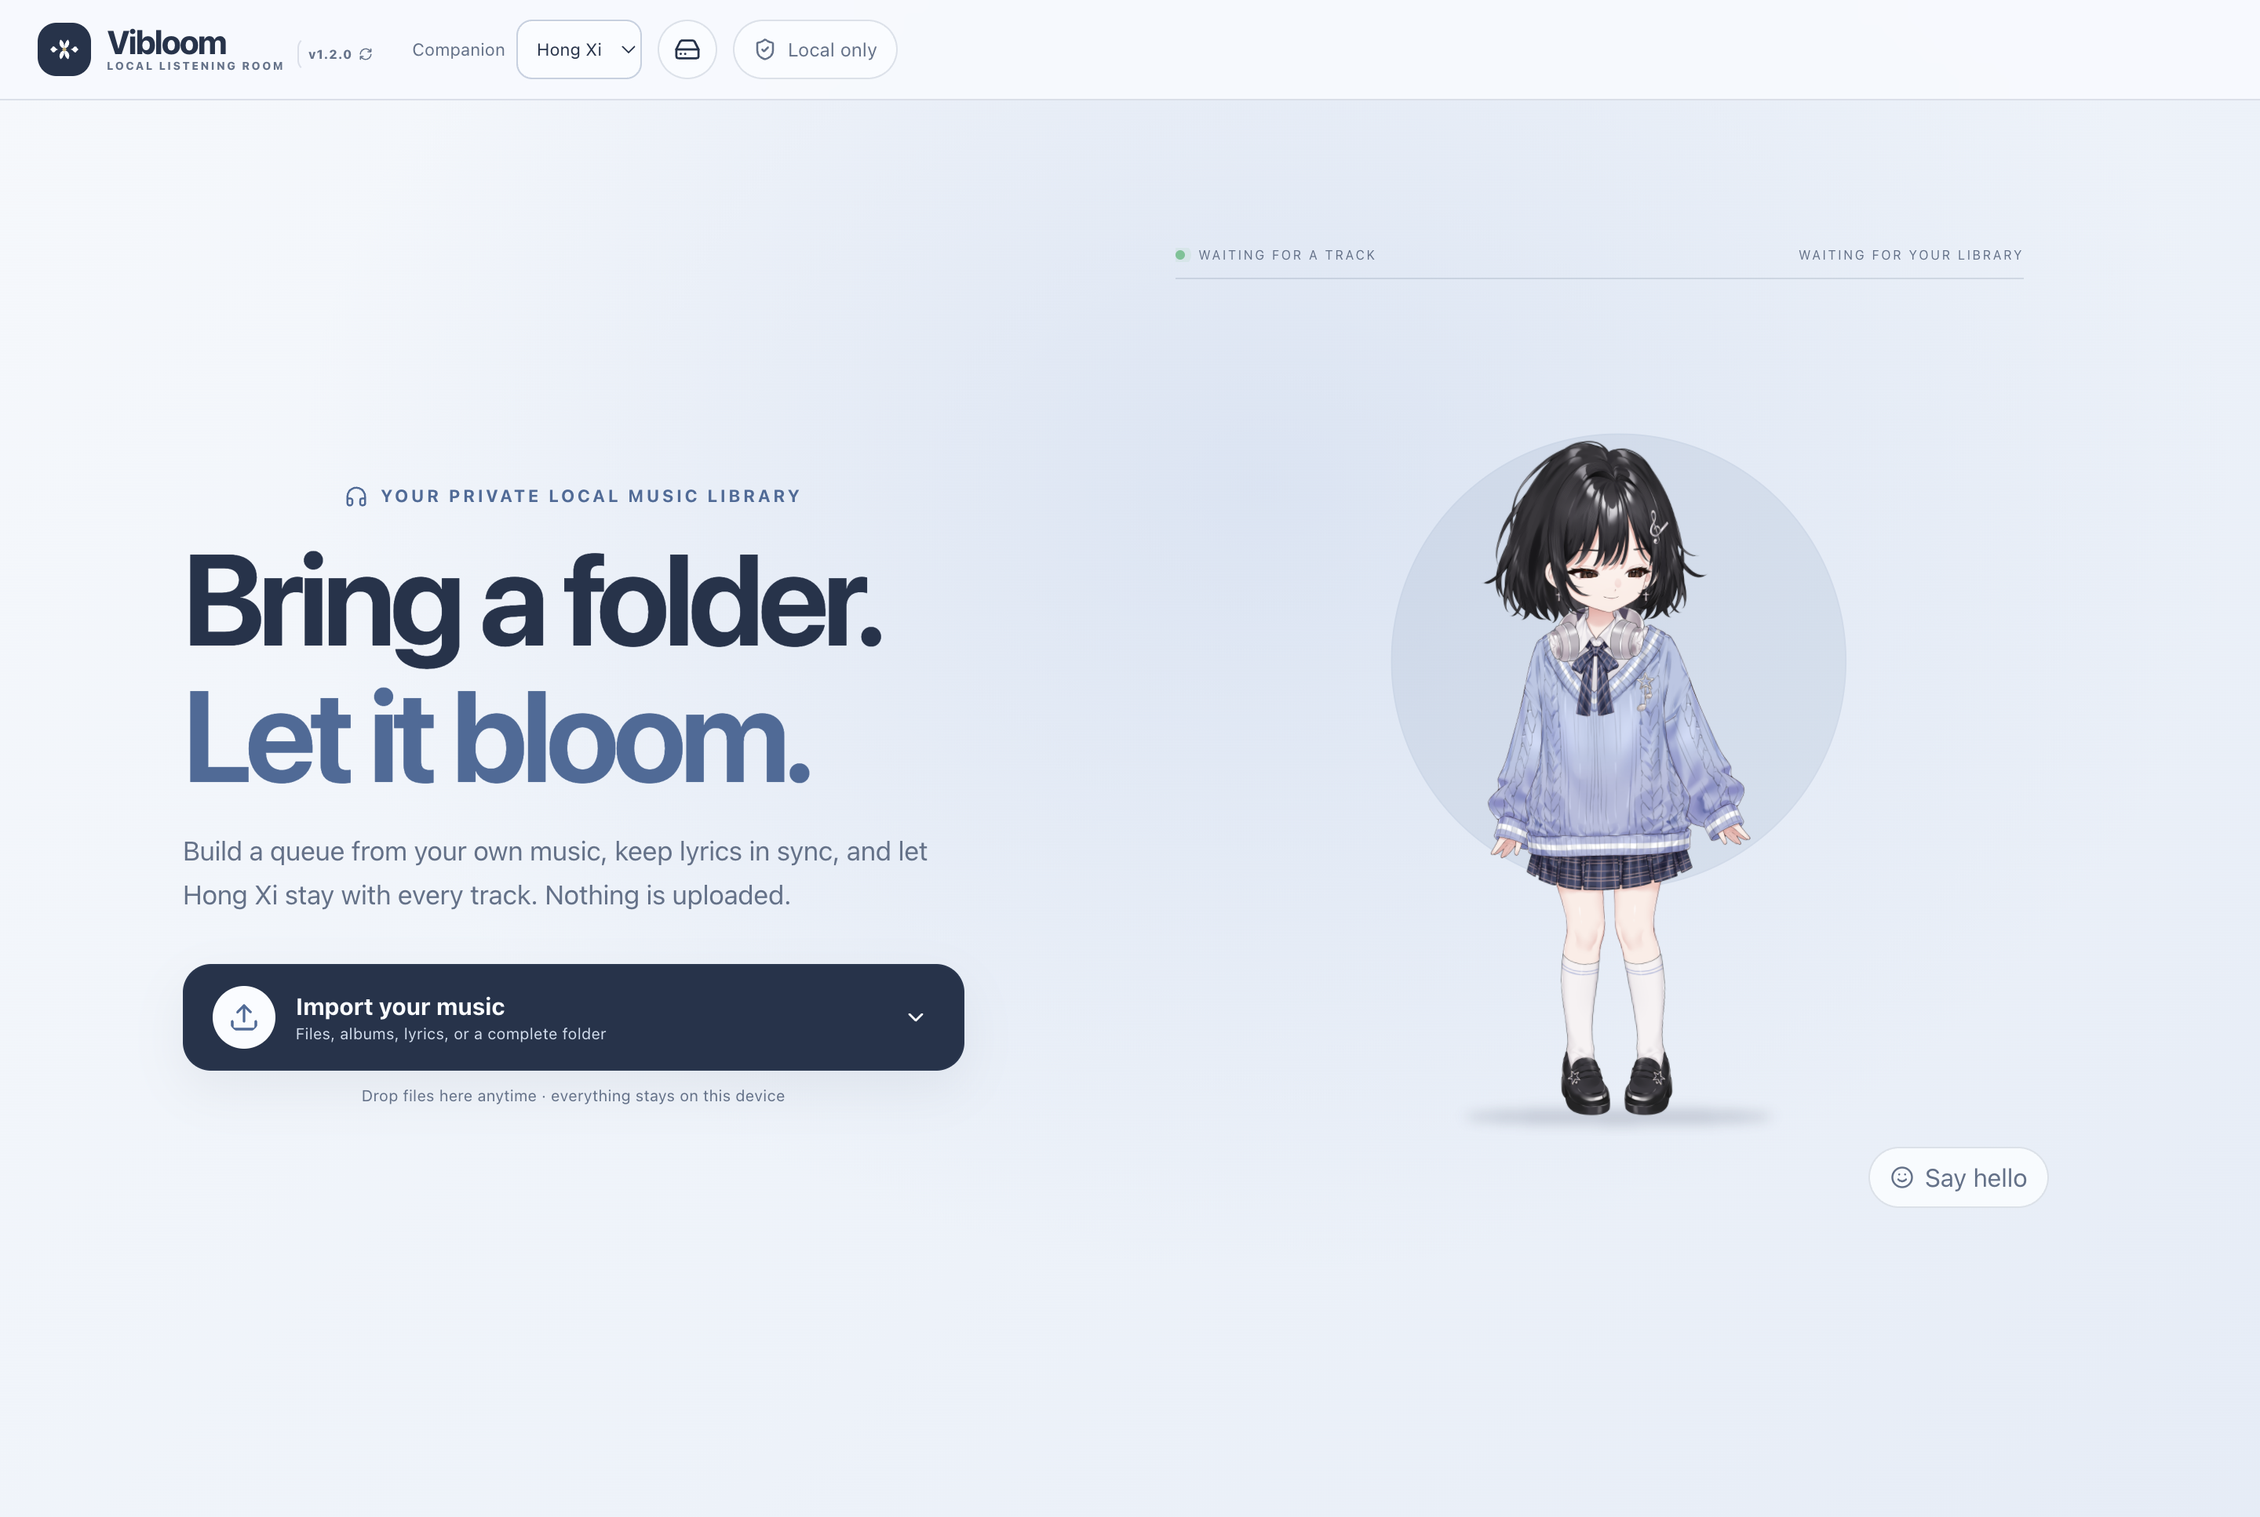
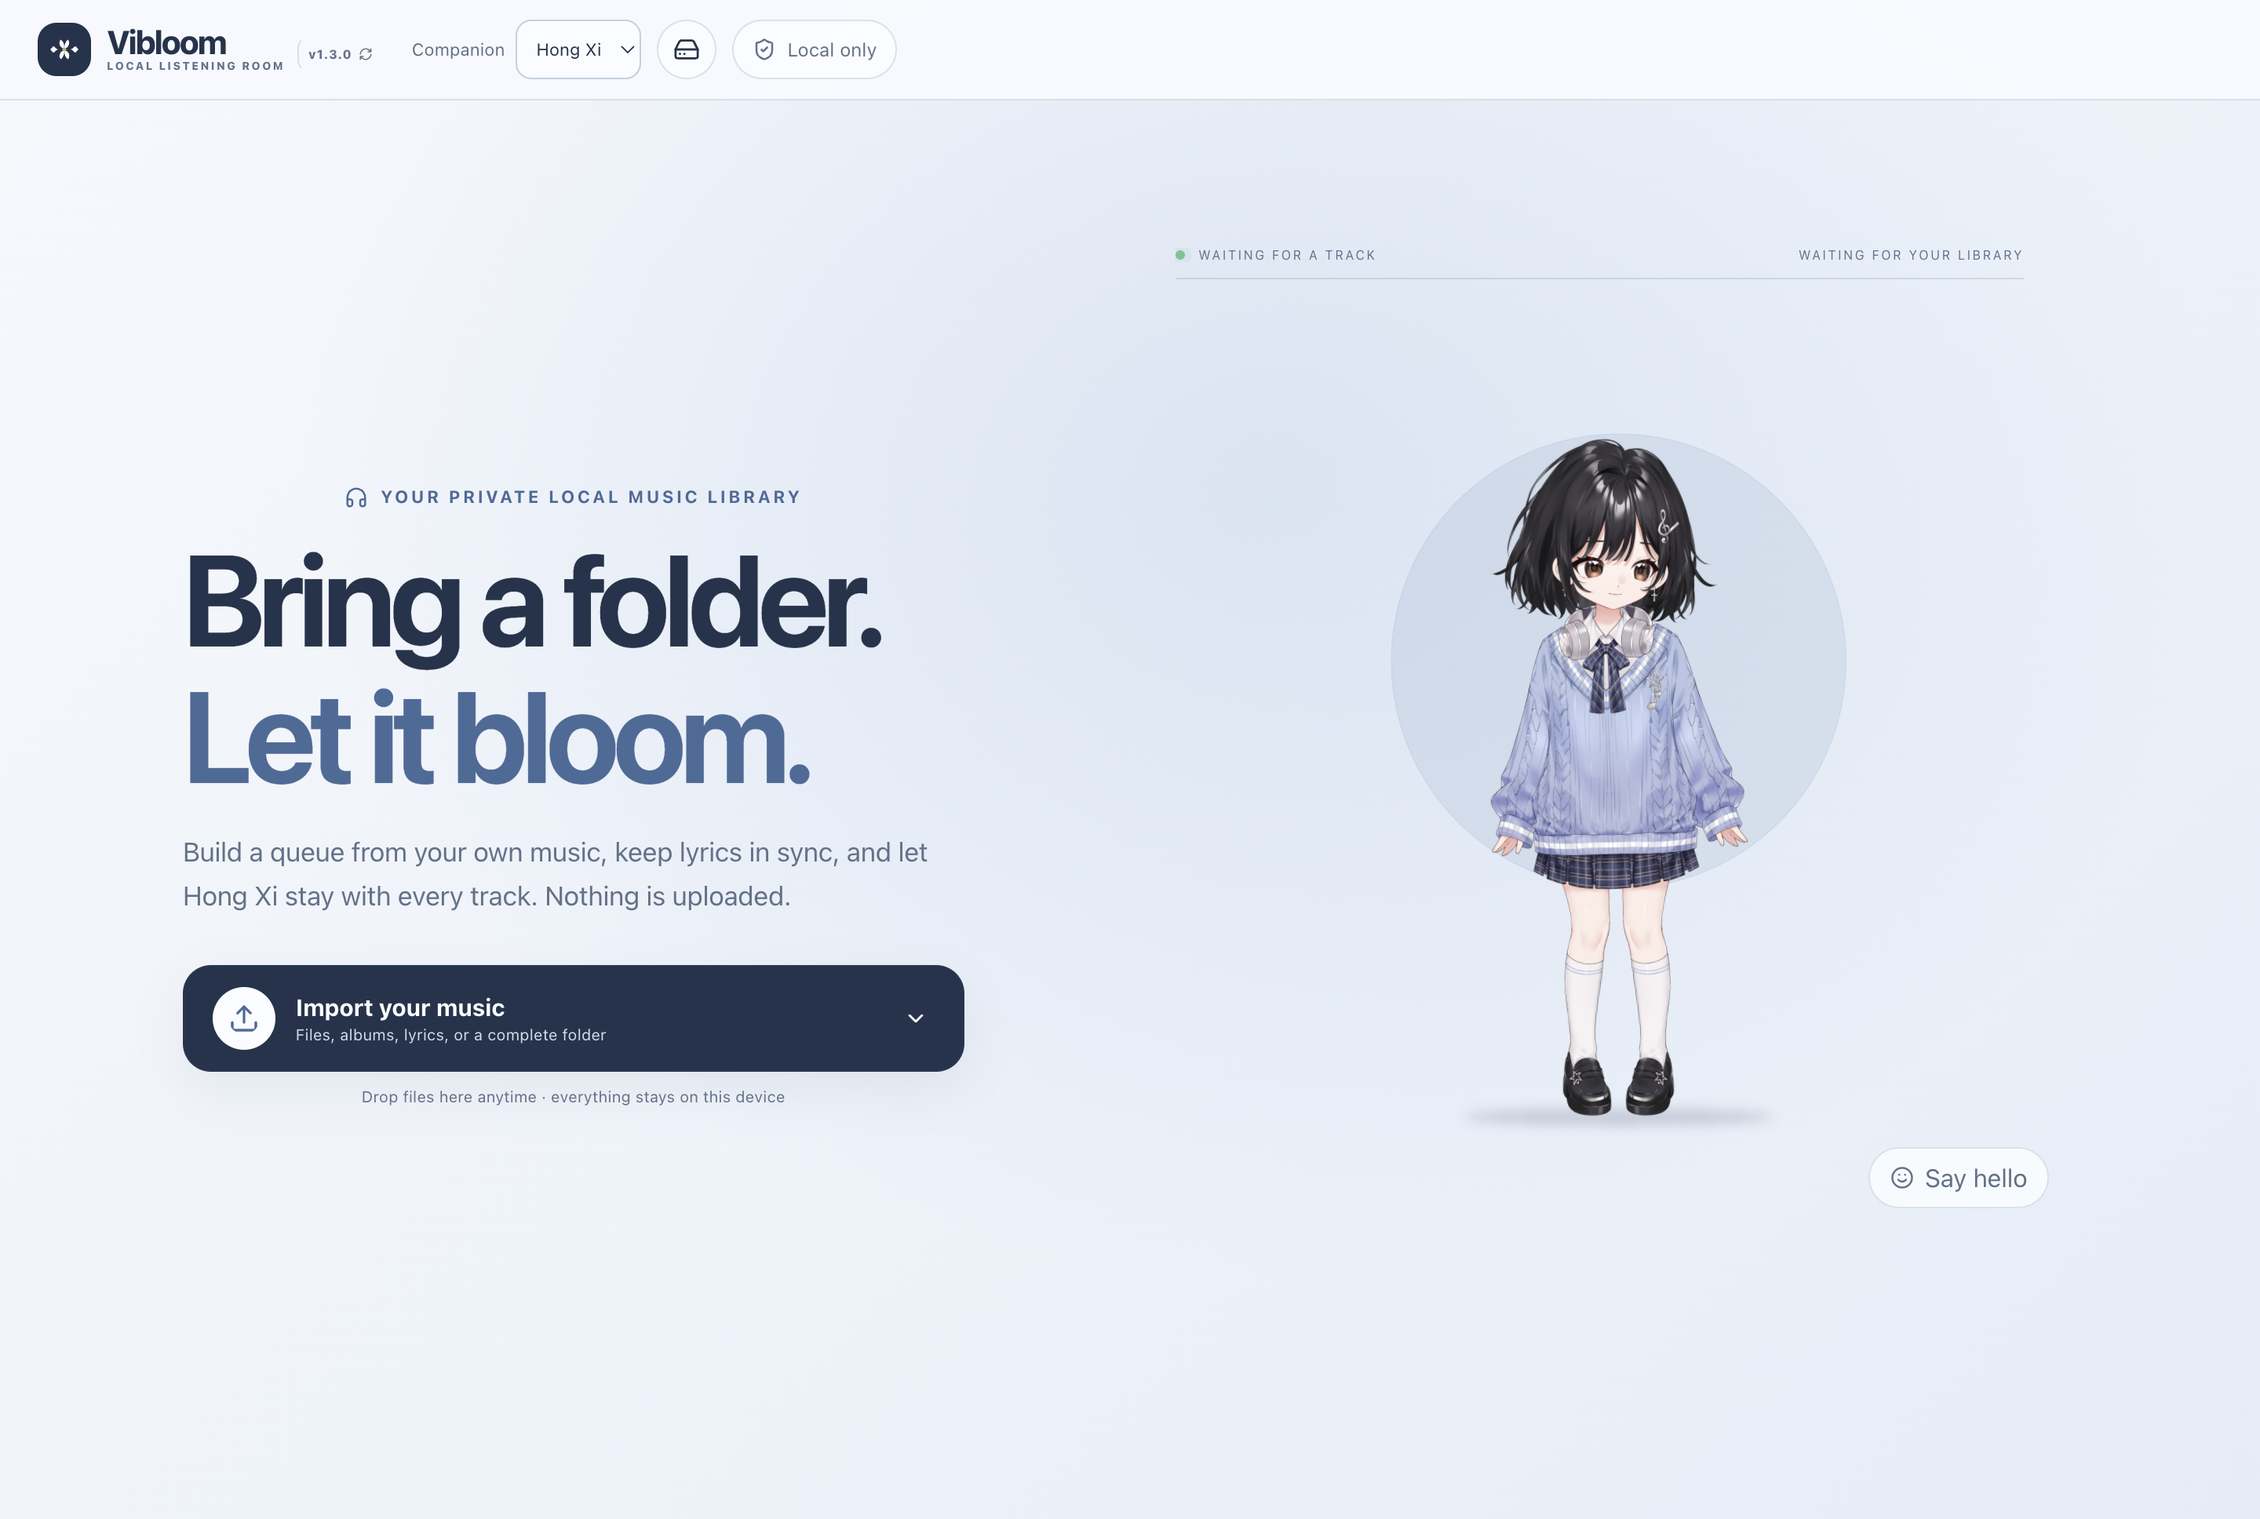
fix: prepare singing in background and respond promptly to greetings

Changed region(s): [[0.6562, 0.2792, 0.7812, 0.7446]]

diff --git a/src/Live2DStage.tsx b/src/Live2DStage.tsx
@@ -274,6 +274,7 @@ export default function Live2DStage({
   const [cameraPreset, setCameraPreset] = useState<"director" | "portrait" | "wide" | "manual">(startsInPortrait ? "portrait" : "director");
   const [zoomReadout, setZoomReadout] = useState(startsInPortrait ? Math.round(PORTRAIT_ZOOM * 100) : 100);
   const [showZoom, setShowZoom] = useState(false);
+  const [reacting, setReacting] = useState(false);
 
   useLayoutEffect(() => {
     let nextCameraUi: { mode: "auto" | "locked"; preset: "director" | "portrait" } | null = null;
@@ -358,6 +359,7 @@ export default function Live2DStage({
         ]);
         if (disposed) return;
         setStatus("loading");
+        setReacting(false);
         configureCubism4({ memorySizeMB: 64 });
         app = new Application({
           backgroundAlpha: 0,
@@ -891,7 +893,8 @@ export default function Live2DStage({
         const personality = new HongXiPersonality();
         let personalityPose: ReturnType<HongXiPersonality["update"]> = {};
         let personalityWeight = 0;
-        const reactToCompanion = () => personality.react();
+        let wasReacting = false;
+        const reactToCompanion = () => { personality.react(); setReacting(true); wasReacting = true; };
         if (!companion.authoredMotions) reactToCompanionRef.current = reactToCompanion;
         const applyPersonalityEyes = () => {
           if (companion.authoredMotions) return;
@@ -1474,6 +1477,11 @@ export default function Live2DStage({
           if (!companion.authoredMotions) {
             personalityPose = personality.update({ dt, playing: features.isPlaying, welcome: variantRef.current === "welcome", energy, beatCount });
             personalityWeight = follow(personalityWeight, personality.gesture ? 1 : 0, 4);
+            if (wasReacting !== personality.reacting) {
+              wasReacting = personality.reacting;
+              setReacting(wasReacting);
+            }
+            if (stageRef.current) stageRef.current.dataset.gesture = personality.gesture ?? "";
           }
           const stage = stageRef.current;
           if (stage) {
@@ -1702,13 +1710,13 @@ export default function Live2DStage({
           </button>
           {!companion.authoredMotions && <>
             <i aria-hidden="true" />
-            <button type="button" disabled={status !== "ready"} aria-label="Interact with Hong Xi" title="Say hello — Hong Xi will react" onClick={() => reactToCompanionRef.current?.()}><Smile size={15} strokeWidth={1.7} /><span>React</span></button>
+            <button type="button" disabled={status !== "ready"} aria-label="Interact with Hong Xi" title="Say hello — Hong Xi will react" onClick={() => reactToCompanionRef.current?.()}><Smile size={15} strokeWidth={1.7} /><span>{reacting ? "Reacting…" : "React"}</span></button>
           </>}
           <span className={`camera-zoom ${showZoom ? "is-visible" : ""}`}>{zoomReadout}%</span>
           <span className="camera-hint"><Mouse size={11} strokeWidth={1.7} /> scroll to frame</span>
         </div>
       )}
-      {variant === "welcome" && !companion.authoredMotions && <button className="companion-greeting" type="button" disabled={status !== "ready"} onClick={() => reactToCompanionRef.current?.()} aria-label="Interact with Hong Xi"><Smile size={15} /> Say hello</button>}
+      {variant === "welcome" && !companion.authoredMotions && <button className="companion-greeting" type="button" disabled={status !== "ready"} onClick={() => reactToCompanionRef.current?.()} aria-label="Interact with Hong Xi"><Smile size={15} /> {reacting ? "Hello!" : "Say hello"}</button>}
       {variant === "welcome" && onPickAudio && (
         <div className="stage-invitation">
           <span>YOUR MUSIC, HER MOVEMENT</span>

diff --git a/src/live2d/hongXiPersonality.ts b/src/live2d/hongXiPersonality.ts
@@ -72,6 +72,8 @@ type DirectorInput = { dt: number; playing: boolean; welcome: boolean; energy: n
 export class HongXiPersonality {
   private active: HongXiGesture | null = null;
   private elapsed = 0;
+  private manual = false;
+  private transitionPose: Pose | null = null;
   private restTime = 0;
   private lastBeat = 0;
   private wasPlaying = false;
@@ -86,7 +88,19 @@ export class HongXiPersonality {
 
   constructor(private random: () => number = Math.random) {}
 
-  react() { this.pendingReaction = true; }
+  react() {
+    // A click takes priority over ambient gestures, blending from the pose the
+    // user actually sees. Repeated clicks during a manual reaction coalesce.
+    if (!this.manual) {
+      this.transitionPose = { ...this.pose };
+      this.previous = this.active ?? this.previous;
+      this.active = null;
+      this.releasePose = null;
+    }
+    this.pendingReaction = true;
+  }
+
+  get reacting() { return this.manual || this.pendingReaction; }
 
   get gesture() { return this.active; }
 
@@ -97,6 +111,8 @@ export class HongXiPersonality {
       this.releaseTime = 0;
       this.active = null;
       this.pendingReaction = false;
+      this.manual = false;
+      this.transitionPose = null;
       this.restTime = 0;
     }
     if (playing && !this.wasPlaying) this.lastBeat = beatCount;
@@ -111,10 +127,18 @@ export class HongXiPersonality {
     if (this.active) {
       this.elapsed += dt;
       this.pose = sampleHongXiGesture(this.active, this.elapsed);
+      if (this.transitionPose) {
+        const weight = ease(Math.min(1, this.elapsed / 0.3));
+        this.pose = Object.fromEntries(POSE_KEYS.map((id) => [id,
+          (this.transitionPose?.[id] ?? 0) * (1 - weight) + (this.pose[id] ?? 0) * weight,
+        ]));
+        if (weight === 1) this.transitionPose = null;
+      }
       const frames = HONG_XI_GESTURES[this.active];
       if (this.elapsed >= frames[frames.length - 1][0]) {
         this.previous = this.active;
         this.active = null;
+        this.manual = false;
         this.restTime = 0;
         this.lastBeat = beatCount;
       }
@@ -148,11 +172,12 @@ export class HongXiPersonality {
         if (candidate < 0) this.bag = [];
       }
       this.greeted = true;
+      this.manual = this.pendingReaction;
       this.pendingReaction = false;
       this.active = next;
       this.elapsed = 0;
     }
-    this.pose = {};
+    this.pose = this.transitionPose ?? {};
     return this.pose;
   }
 }

diff --git a/src/LibraryApp.tsx b/src/LibraryApp.tsx
@@ -1786,12 +1786,14 @@ export default function LibraryApp({ platform = browserLibraryPlatform }: { plat
             <div className="vocal-lip-sync" role="group" aria-label="Vocal lip sync">
               {vocalLipSync.state.status === "working" ? <>
                 <span role="status">{vocalLipSync.state.phase} · {Math.round(vocalLipSync.state.progress * 100)}%</span>
-                <button type="button" onClick={vocalLipSync.disable}>Cancel</button>
+                <progress aria-label="Vocal preparation progress" value={vocalLipSync.state.progress} max={1} />
+                <small>Preparing in the background · keep listening</small>
+                <button type="button" onClick={vocalLipSync.cancel}>Cancel</button>
               </> : <>
-                <button type="button" disabled={!vocalBuffer} onClick={vocalLipSync.enabled && vocalLipSync.state.status === "ready" ? vocalLipSync.disable : vocalLipSync.enable}>
-                  {vocalLipSync.state.status === "ready" ? "Vocal lip sync · On" : vocalLipSync.state.status === "error" ? "Retry vocal lip sync" : "Enable vocal lip sync"}
+                <button type="button" disabled={!vocalBuffer} aria-pressed={vocalLipSync.state.status === "ready" ? vocalLipSync.enabled : undefined} onClick={vocalLipSync.state.status === "ready" ? vocalLipSync.toggle : vocalLipSync.prepare}>
+                  {vocalLipSync.state.status === "ready" ? vocalLipSync.enabled ? "Vocal lip sync · On" : "Start singing" : vocalLipSync.state.status === "error" ? "Retry vocal lip sync" : "Prepare vocal lip sync"}
                 </button>
-                <small>{vocalLipSync.state.status === "ready" ? `Following vocals · ${activeSource === 0 ? "A" : "B"}` : "Local analysis · first download 172 MiB"}</small>
+                <small>{vocalLipSync.state.status === "ready" ? `${vocalLipSync.enabled ? "Following vocals" : "Vocals ready"} · ${activeSource === 0 ? "A" : "B"}` : "Local analysis · first download 172 MiB"}</small>
               </>}
               {vocalLipSync.state.status === "error" && <small role="alert">{vocalLipSync.state.error}</small>}
             </div>

diff --git a/src/audio/vocals/useVocalLipSync.ts b/src/audio/vocals/useVocalLipSync.ts
@@ -8,11 +8,12 @@ const idle = (buffer: AudioBuffer | null): AnalysisState => ({ buffer, status: "
 
 export function useVocalLipSync(buffer: AudioBuffer | null, saved: VocalAnalysis | undefined, save: (buffer: AudioBuffer, analysis: VocalAnalysis) => void) {
   const cache = useRef(new WeakMap<AudioBuffer, Float32Array>());
+  const [requested, setRequested] = useState(false);
   const [enabled, setEnabled] = useState(false);
   const [attempt, setAttempt] = useState(0);
   const [state, setState] = useState<AnalysisState>(idle(null));
   useEffect(() => {
-    if (!enabled || !buffer) return;
+    if (!requested || !buffer) return;
     const controller = new AbortController();
     const cached = cache.current.get(buffer) ?? (
       saved?.version === 1 && Array.isArray(saved.rms) && saved.rms.length === Math.ceil(buffer.duration * 50)
@@ -42,15 +43,16 @@ export function useVocalLipSync(buffer: AudioBuffer | null, saved: VocalAnalysis
       }
     });
     return () => controller.abort();
-  }, [buffer, enabled, attempt, saved, save]);
+  }, [buffer, requested, attempt, saved, save]);
   const sample = useCallback((time: number, volume: number) => (
     enabled && buffer ? sampleVocalEnvelope(cache.current.get(buffer) ?? null, time, volume) : 0
   ), [buffer, enabled]);
   return {
-    state: enabled && state.buffer === buffer ? state : idle(buffer),
+    state: requested && state.buffer === buffer ? state : idle(buffer),
     enabled,
     sample,
-    enable: () => { setEnabled(true); setAttempt((value) => value + 1); },
-    disable: () => setEnabled(false),
+    prepare: () => { setRequested(true); setAttempt((value) => value + 1); },
+    cancel: () => { setRequested(false); setEnabled(false); },
+    toggle: () => setEnabled((value) => !value),
   };
 }

diff --git a/src/library.css b/src/library.css
@@ -2653,6 +2653,7 @@ button.track-index,
 .companion-greeting:focus-visible { outline: 2px solid var(--library-accent); outline-offset: 3px; }
 .companion-greeting:disabled { opacity: .5; cursor: wait; }
 
+.persistent-stage-panel { position: relative; }
 .vocal-lip-sync {
   position: absolute;
   z-index: 4;
@@ -2672,3 +2673,6 @@ button.track-index,
 .vocal-lip-sync button { border: 1px solid var(--library-line); border-radius: 18px; padding: 6px 11px; background: var(--library-paper); color: var(--library-ink); font: inherit; cursor: pointer; }
 .vocal-lip-sync small[role="alert"] { width: 100%; }
 .is-library-focus .vocal-lip-sync { top: 72px; }
+
+.vocal-lip-sync progress { width: 100%; height: 5px; accent-color: var(--library-accent); }
+.vocal-lip-sync [role="status"] { width: 100%; }

diff --git a/README.md b/README.md
@@ -14,7 +14,7 @@ A private music player for the web, macOS, and Windows, with synchronized A/B co
 - **A/B comparison:** add a second version, switch instantly on one shared audio clock, and compare waveforms. Both versions can be kept on-device.
 - **Lyrics:** attach and adjust LRC files, or timestamp plain TXT lyrics and download an LRC file. Same-named lyric files match automatically during import.
 - **Headset controls:** system play/pause and seek commands share the player's transport, preserving position and A/B synchronization. AirPods ear detection depends on device settings and OS/browser support; physical AirPods testing is still pending.
-- **Live2D companions:** switch between Hong Xi and Hiyori. Both offer gestures, pointer gaze, camera controls, and Focus mode. **Enable vocal lip sync** separates vocals locally for mouth movement; first use downloads a 172 MiB model, then saves each track’s analysis.
+- **Live2D companions:** switch between Hong Xi and Hiyori. Both offer gestures, pointer gaze, camera controls, and Focus mode; **Say hello** gets a response from Hong Xi. **[Prepare vocal lip sync](docs/assets/vocal-preparation.png)** separates vocals in the background with a progress bar; keep listening, then choose **Start singing**. First use downloads a 172 MiB model; analysis stays saved on-device.
 - **Desktop updates:** click the version beside the logo to check for updates. On macOS, closing the window keeps music playing; `Command-Q` quits.
 
 ![Vibloom comparing two synchronized versions](docs/assets/listening-room.png)

diff --git a/CHANGELOG.md b/CHANGELOG.md
@@ -4,7 +4,9 @@ Notable changes to Vibloom are recorded here. Release entries summarize the chan
 
 ## Unreleased
 
-- Add vocal-driven lip sync to Hong Xi and Hiyori using local Demucs separation. Save per-source timing, follow A/B selection and seeking, and close through instrumental passages, pause, or unavailable analysis. Include model download progress, cancellation, and retry.
+- Add vocal-driven lip sync to Hong Xi and Hiyori using local Demucs separation. Save per-source timing, follow A/B selection and seeking, and close through instrumental passages, pause, or unavailable analysis. Prepare in the background with a progress bar, cancellation, and retry, then enable singing without interrupting playback.
+
+- Make **Say hello** respond immediately during ambient gestures, with a smooth pose transition and visible feedback.
 
 ## [1.3.0](https://github.com/wedoso/Vibloom/compare/v1.2.0...v1.3.0) (2026-09-26)
 
